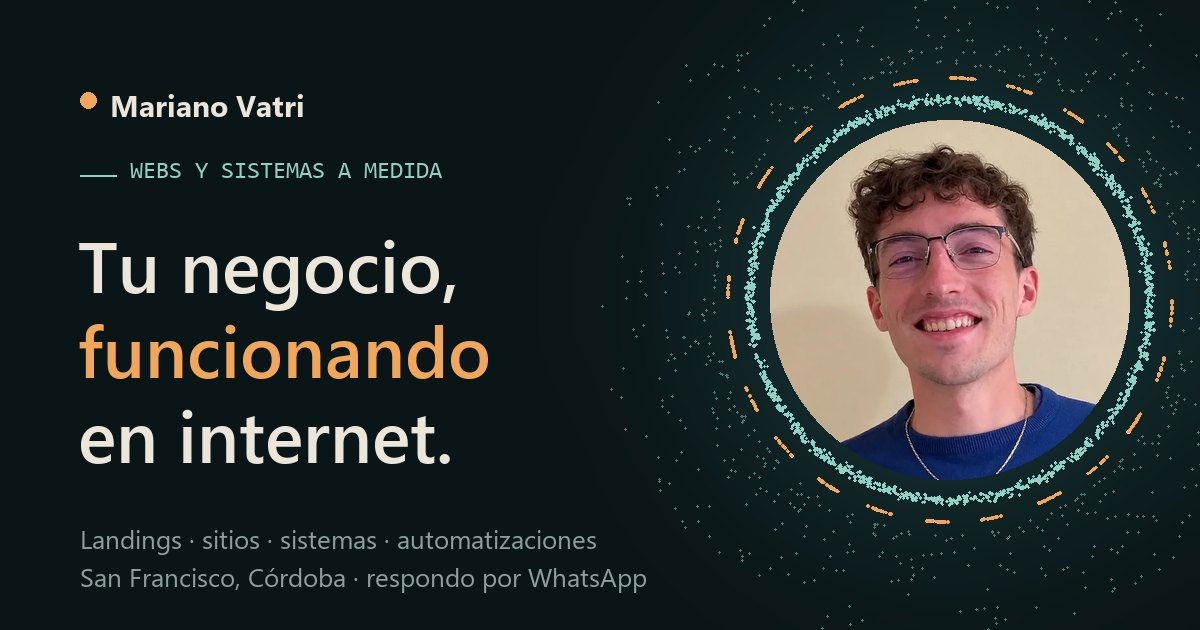
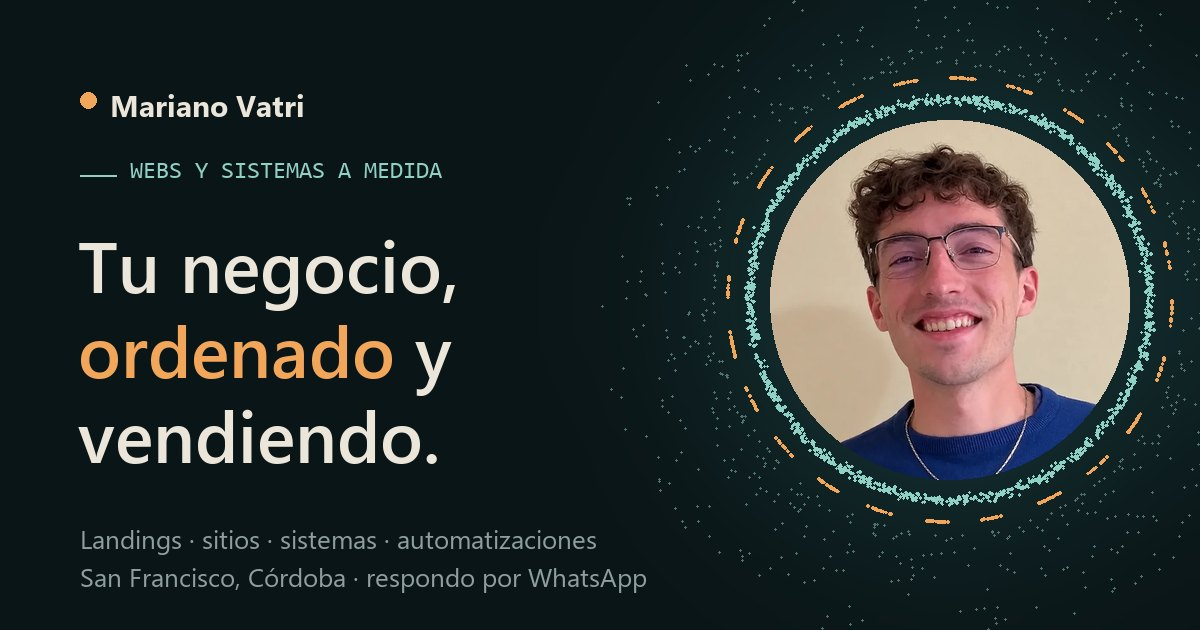
Hero con WhatsApp directo y dominio propio marianovatri.com.ar
- Hero: título nuevo en dos líneas, botón directo a WhatsApp, foto con
  línea de confianza y rótulos sobre las tarjetas del dashboard; algunos
  globos de la escena siguen cayendo en su tarjeta. Sale la palabra
  rotativa del título.
- Imagen de vista previa actualizada y avatar.webp en el service worker
  (caché mv-v3).
- Canonical, og:url, og:image, JSON-LD y tarjeta de contacto apuntan a
  www.marianovatri.com.ar.
- README: publicación en Vercel con el dominio delegado desde NIC.

Changed region(s): [[0.0617, 0.6333, 0.37, 0.754], [0.0617, 0.5127, 0.4317, 0.6333]]

diff --git a/index.html b/index.html
@@ -5,21 +5,21 @@
 <meta name="viewport" content="width=device-width,initial-scale=1,viewport-fit=cover">
 <title>Mariano Vatri · Webs y sistemas para pymes en San Francisco, Córdoba</title>
 <meta name="description" content="Landings, sitios, sistemas a medida, automatizaciones y mantenimiento para consultoras, profesionales y pymes. Me escribís por WhatsApp y te respondo en 24 h hábiles.">
-<link rel="canonical" href="https://marianovatri.netlify.app/">
+<link rel="canonical" href="https://www.marianovatri.com.ar/">
 <meta name="theme-color" content="#0A1517">
 <!-- vista previa al compartir el link (WhatsApp, LinkedIn, etc.) -->
 <meta property="og:type" content="website">
 <meta property="og:locale" content="es_AR">
 <meta property="og:site_name" content="Mariano Vatri">
-<meta property="og:url" content="https://marianovatri.netlify.app/">
+<meta property="og:url" content="https://www.marianovatri.com.ar/">
 <meta property="og:title" content="Mariano Vatri · Webs y sistemas para pymes">
 <meta property="og:description" content="Landings, sitios y sistemas a medida en San Francisco, Córdoba. Me escribís por WhatsApp y lo hago yo, sin intermediarios.">
-<meta property="og:image" content="https://marianovatri.netlify.app/img/og.jpg">
+<meta property="og:image" content="https://www.marianovatri.com.ar/img/og.jpg">
 <meta property="og:image:width" content="1200">
 <meta property="og:image:height" content="630">
 <meta property="og:image:alt" content="Mariano Vatri, webs y sistemas a medida">
 <meta name="twitter:card" content="summary_large_image">
-<script type="application/ld+json">{"@context":"https://schema.org","@type":"ProfessionalService","name":"Mariano Vatri · Webs y sistemas a medida","url":"https://marianovatri.netlify.app/","image":"https://marianovatri.netlify.app/img/og.jpg","telephone":"+5493564335655","email":"marianovatri@gmail.com","areaServed":"AR","address":{"@type":"PostalAddress","addressLocality":"San Francisco","addressRegion":"Córdoba","addressCountry":"AR"},"sameAs":["https://www.linkedin.com/in/marianovatri/","https://github.com/marianovatri","https://www.instagram.com/vatrimariano/"]}</script>
+<script type="application/ld+json">{"@context":"https://schema.org","@type":"ProfessionalService","name":"Mariano Vatri · Webs y sistemas a medida","url":"https://www.marianovatri.com.ar/","image":"https://www.marianovatri.com.ar/img/og.jpg","telephone":"+5493564335655","email":"marianovatri@gmail.com","areaServed":"AR","address":{"@type":"PostalAddress","addressLocality":"San Francisco","addressRegion":"Córdoba","addressCountry":"AR"},"sameAs":["https://www.linkedin.com/in/marianovatri/","https://github.com/marianovatri","https://www.instagram.com/vatrimariano/"]}</script>
 <link rel="preconnect" href="https://fonts.googleapis.com">
 <link rel="preconnect" href="https://fonts.gstatic.com" crossorigin>
 <link rel="stylesheet" href="https://fonts.googleapis.com/css2?family=Bricolage+Grotesque:opsz,wght@12..96,300..800&family=Figtree:wght@400;500;600&family=JetBrains+Mono:wght@400;500&display=swap">
@@ -199,8 +199,19 @@ p{margin:0;max-width:62ch}
 .ba input{position:absolute;inset:0;width:100%;height:100%;margin:0;opacity:0;cursor:ew-resize;z-index:2}
 .ba:has(input:focus-visible){outline:2px solid var(--glacier);outline-offset:3px}
 /* palabra que se escribe en el título */
-.rot{display:block;white-space:nowrap;min-height:1.02em}
-.rot::after{content:"";display:inline-block;width:.06em;height:.82em;margin-left:.04em;background:var(--apricot);vertical-align:-.04em;animation:caret 1s steps(1) infinite}
+/* Hero: título en dos líneas, todo lo importante entra sin scroll */
+.hero .col{width:min(640px,100%)}
+.hero h1{font-size:clamp(2.5rem,1.4rem + 3.3vw,4.4rem)}
+.hero h1 .l2{display:block;white-space:nowrap}
+@media (max-width:520px){.hero h1 .l2{white-space:normal}}
+.hero .lead{max-width:40ch;margin-top:22px}
+.hero .actions{margin-top:30px}
+.btn .ico{width:20px;height:20px;flex:none}
+.trust{display:flex;align-items:center;gap:10px;margin-top:22px;font-size:var(--s-1);color:var(--bone);opacity:.9}
+.trust img{width:28px;height:28px;border-radius:50%;object-fit:cover;border:1px solid var(--line);flex:none}
+.hero .creds{margin-top:16px}
+.hero .scrollhint{margin-top:30px}
+@media (max-height:820px) and (min-width:901px){.hero .scrollhint{display:none}}
 @keyframes caret{50%{opacity:0}}
 .btn.solid,nav .cta{transition:background .25s,color .25s,transform .3s cubic-bezier(.2,.7,.1,1)}
 .works .kind{font-family:var(--f-mono);font-size:var(--s-1);color:var(--glacier);letter-spacing:.08em;text-transform:uppercase}
@@ -224,6 +235,12 @@ footer .wrap{display:flex;flex-wrap:wrap;justify-content:space-between;gap:12px;
 html.present .hud-k{font-size:.85rem}
 html.present .hud-t{font-size:1.5rem}
 @media (max-width:900px){.hud{display:none}}
+/* rótulos de las tarjetas del dashboard del inicio (los ubica el script sobre cada tarjeta) */
+.dash-tags span{position:fixed;left:0;top:0;z-index:3;pointer-events:none;opacity:0;font-family:var(--f-mono);font-size:.68rem;letter-spacing:.14em;text-transform:uppercase;
+  color:var(--glacier);padding:3px 9px;border-radius:999px;background:rgba(10,21,23,.7);border:1px solid rgba(143,209,196,.25);white-space:nowrap;will-change:transform,opacity;
+  transition:color .35s,background-color .35s,border-color .35s,box-shadow .35s}
+.dash-tags span.hit{color:var(--ink);background:var(--apricot);border-color:var(--apricot);box-shadow:0 0 16px rgba(242,166,90,.55)}
+@media (max-width:900px){.dash-tags{display:none}}
 
 /* Riel de secciones */
 .rail{position:fixed;right:22px;top:50%;transform:translateY(-50%);z-index:4;display:flex;flex-direction:column;align-items:center;gap:14px}
@@ -368,7 +385,7 @@ html.present .fab{display:none}
 @media (prefers-reduced-motion:reduce){
   html{scroll-behavior:auto}
   .ri{opacity:1;translate:none;transition:none}
-  .scrollhint span,.fab.on::before,.rot::after,.hud.swap .hud-t,.hud.swap .hud-k,.estimate strong.pop,.hola:hover .hola-msg span{animation:none}
+  .scrollhint span,.fab.on::before,.hud.swap .hud-t,.hud.swap .hud-k,.estimate strong.pop,.hola:hover .hola-msg span{animation:none}
   .steps{--tallo:1!important}
 }
 </style>
@@ -378,6 +395,7 @@ html.present .fab{display:none}
 <canvas id="scene" aria-hidden="true"></canvas>
 <div class="grain" aria-hidden="true"></div>
 <div class="hud" id="hud" aria-hidden="true"><span class="hud-k"></span><span class="hud-t"></span></div>
+<div class="dash-tags" id="dash-tags" aria-hidden="true"><span>Consultas</span><span>Turnos</span><span>Ventas</span></div>
 
 <nav class="rail" id="rail" aria-label="Secciones de la página">
   <a href="#inicio" data-sec="inicio"><span>Inicio</span></a>
@@ -421,14 +439,17 @@ html.present .fab{display:none}
   <section class="sec hero" id="inicio" data-shape="0">
     <div class="wrap"><div class="col">
       <p class="eyebrow">Webs y sistemas a medida</p>
-      <h1 aria-label="Tu negocio, funcionando en internet.">Tu negocio, <em class="rot" aria-hidden="true">funcionando</em> en internet.</h1>
-      <p class="lead">Diseño y desarrollo landings, sitios y sistemas internos para consultoras, profesionales y pymes. Vos me contás qué necesitás; yo me ocupo de que exista.</p>
+      <h1>Tu negocio, <span class="l2"><em>ordenado</em> y vendiendo.</span></h1>
+      <p class="lead">Que las consultas te lleguen ordenadas y no se te escape ningún cliente. Webs y sistemas a medida para pymes y consultoras.</p>
       <div class="actions">
-        <a class="btn solid" href="#contacto">Contame tu proyecto</a>
-        <a class="btn ghost" href="#servicios">Ver qué hago</a>
+        <a class="btn solid wa" href="https://wa.me/5493564335655?text=Hola%20Mariano%2C%20vi%20tu%20web%20y%20quiero%20contarte%20mi%20proyecto." target="_blank" rel="noopener">
+          <svg class="ico" viewBox="0 0 24 24" aria-hidden="true"><path fill="currentColor" d="M12.04 2C6.58 2 2.13 6.45 2.13 11.91c0 1.75.46 3.45 1.32 4.95L2.05 22l5.25-1.38a9.9 9.9 0 0 0 4.74 1.2c5.46 0 9.91-4.45 9.91-9.91C21.95 6.45 17.5 2 12.04 2Zm0 18.15c-1.48 0-2.93-.4-4.2-1.15l-.3-.18-3.12.82.83-3.04-.2-.31a8.2 8.2 0 0 1-1.26-4.38c0-4.54 3.7-8.24 8.25-8.24 4.54 0 8.24 3.7 8.24 8.24 0 4.55-3.7 8.24-8.24 8.24Zm4.52-6.16c-.25-.12-1.47-.72-1.69-.81-.23-.08-.4-.12-.56.13-.17.24-.64.8-.78.97-.15.16-.29.18-.54.06-.25-.12-1.05-.39-1.99-1.23-.74-.66-1.23-1.47-1.38-1.72-.14-.25-.01-.38.11-.5.11-.11.25-.29.37-.43.13-.15.17-.25.25-.42.08-.16.04-.31-.02-.43-.06-.12-.56-1.34-.76-1.84-.2-.48-.41-.42-.56-.43h-.48c-.17 0-.43.06-.66.31-.22.25-.86.85-.86 2.07 0 1.22.89 2.4 1.01 2.56.12.17 1.75 2.67 4.23 3.74.59.26 1.05.41 1.41.52.59.19 1.13.16 1.56.1.48-.07 1.47-.6 1.67-1.18.21-.58.21-1.07.15-1.18-.06-.1-.23-.16-.48-.28Z"/></svg>
+          Escribime por WhatsApp</a>
+        <a class="btn ghost" href="#trabajos">Ver trabajos</a>
       </div>
+      <p class="trust"><img src="img/avatar.webp" width="64" height="64" alt="">San Francisco, Córdoba · Te respondo yo, en 24&nbsp;h hábiles</p>
       <ul class="creds">
-        <li>+4 años en equipos de desarrollo</li>
+        <li>Trabajo directo conmigo, sin intermediarios</li>
         <li>Sistemas para organismos provinciales</li>
         <li>NASA Space Apps 2022</li>
       </ul>
@@ -549,7 +570,7 @@ html.present .fab{display:none}
       <p class="lead">Armá tu consulta en tres toques y te respondo en menos de 24 horas hábiles.</p>
       <div class="big-qr">
         <img src="img/qr-whatsapp.svg" width="200" height="200" alt="Código QR que abre un chat de WhatsApp con Mariano">
-        <div><b>Escaneá y escribime</b><span>Te abre WhatsApp con el mensaje listo.</span><span class="url">+54 9 3564 33-5655 · marianovatri@gmail.com</span><span class="url">marianovatri.netlify.app</span></div>
+        <div><b>Escaneá y escribime</b><span>Te abre WhatsApp con el mensaje listo.</span><span class="url">+54 9 3564 33-5655 · marianovatri@gmail.com</span><span class="url">marianovatri.com.ar</span></div>
       </div>
       <form class="quote" id="quote" onsubmit="return false">
         <fieldset>
@@ -664,21 +685,6 @@ html.present .fab{display:none}
       wa.href='https://wa.me/5493564335655?text='+encodeURIComponent(msg);
     };
     q.addEventListener('input',update);update();
-  }
-
-  // palabra del título que se escribe y se borra
-  const rot=document.querySelector('.rot');
-  if(rot&&!still){
-    const words=['funcionando','vendiendo','creciendo','atendiendo'];let w=0;
-    const wait=ms=>new Promise(r=>setTimeout(r,ms));
-    (async function loop(){
-      for(;;){
-        await wait(2600);
-        for(let t=words[w];t.length;t=t.slice(0,-1)){rot.textContent=t.slice(0,-1);await wait(45)}
-        w=(w+1)%words.length;
-        for(let i=1;i<=words[w].length;i++){rot.textContent=words[w].slice(0,i);await wait(70)}
-      }
-    })();
   }
 
   // capturas de trabajos que se inclinan siguiendo el mouse
@@ -884,7 +890,7 @@ function start(){
   // caos: mensajes y notas sueltas por toda la pantalla (así llega el trabajo de un negocio)
   const NB=mobile?32:48,bubbles=[];
   for(let b=0;b<NB;b++){const w=.6+R()*.75;bubbles.push({x:(R()-.5)*(mobile?6:11.5)-(mobile?0:2.4),y:(R()-.5)*(mobile?9:6.4),z:-3+R()*4.4,w,h:w*(.4+R()*.22),rot:(R()-.5)*.9,yaw:(R()-.5)*1.4})}
-  const chaos=()=>{const b=bubbles[R()*NB|0];let x,y;
+  const chaos=(bi=R()*NB|0)=>{const b=bubbles[bi];let x,y;
     const u=R();
     if(u<.66)[x,y]=rrect(b.w,b.h,Math.min(b.h/2,.11),R());
     else if(u<.72){const t=R();[x,y]=t<.5?[-b.w/2+.16-t*.2,-b.h/2-t*.24]:[-b.w/2+.06+(t-.5)*.3,-b.h/2-.12+(t-.5)*.24]} // la colita del globo
@@ -968,15 +974,21 @@ function start(){
 
   // ---------- geometría ----------
   const geo=new THREE.BufferGeometry(),F=k=>new Float32Array(N*k);
-  const A={position:F(3),aChaos:F(3),aS1:F(3),aS2:F(3),aS3:F(3),aS4:F(3),aS5:F(3),aS6:F(3),aCol6:F(3),aRand:F(1),aUv:F(2),aPath:F(1),aLayer:F(1)};
+  const A={position:F(3),aChaos:F(3),aS1:F(3),aS3:F(3),aS4:F(3),aS5:F(3),aS6:F(3),aCol6:F(3),aRand:F(1),aUv:F(2),aPath:F(1),aLayer:F(1),aFlow:F(1)}; // aFlow: 0, o 1+fase del globo
+  // flujo continuo: unos pocos globos (del lado de la escena) vuelven a entrar cada tanto y caen en una tarjeta.
+  // Cada globo tiene su fase y su tarjeta; el script usa las mismas fases para marcar el rótulo cuando llega.
+  const FLOW_N=9,flowSlot=new Map();
+  bubbles.map((b,k)=>[b,k]).filter(([b])=>b.x>-.6&&Math.abs(b.y)<2.6).slice(0,FLOW_N).forEach(([,k],s)=>flowSlot.set(k,s));
+  const cardPt=k=>{const cx=-.6+k*1.02;return R()<.6?outline(cx,.59,.9,.6,.08,.32)():box(cx-.38,.36,cx+.38,.82,.32)()};
   const put=(arr,i,v)=>{arr[i*3]=v[0];arr[i*3+1]=v[1];arr[i*3+2]=v[2]};
   const SW=4.6,SH=SW*ROWS/COLS,qmark=glyph('?',QFONT,3.2);
   for(let i=0;i<N;i++){
     A.aRand[i]=R();
-    put(A.aChaos,i,chaos());put(A.position,i,dash());
+    const bi=R()*NB|0,slot=flowSlot.get(bi);put(A.aChaos,i,chaos(bi));
+    if(slot!==undefined&&R()<.5){A.aFlow[i]=1+slot/flowSlot.size;put(A.position,i,cardPt(slot%3))}
+    else put(A.position,i,dash());
     const l=layers();put(A.aS1,i,l);A.aLayer[i]=l[3];
     const c=i%COLS,r=(i/COLS)|0;A.aUv[i*2]=(c+.5)/COLS;A.aUv[i*2+1]=(r+.5)/ROWS;
-    put(A.aS2,i,[(c/(COLS-1)-.5)*SW,(.5-r/(ROWS-1))*SH,0]);
     const p=path();put(A.aS3,i,p);A.aPath[i]=p[3];
     put(A.aS4,i,venn());put(A.aS5,i,qmark());const hp=halo();put(A.aS6,i,hp);put(A.aCol6,i,hp.slice(3));
   }
@@ -1055,13 +1067,13 @@ function start(){
   const U={uProg:{value:0},uIntro:{value:reduce?1:0},uTime:{value:0},uPix:{value:1},uMotion:{value:reduce?0:1},uSize:{value:mobile?42:36},uScale:{value:1},
     uAspect:{value:1},uHover:{value:0},uMouse:{value:new THREE.Vector2(9,9)},uBoost:{value:1},uBoostSize:{value:1},
     uPosT:{value:posT},uColT:{value:colT},uShotA:{value:0},uShotB:{value:0},uShotMix:{value:0},uShotsN:{value:NS},uShotsReady:{value:0},
-    uPath:{value:0},uLayer:{value:3},uLayerOn:{value:0},
+    uPath:{value:0},uLayer:{value:3},uLayerOn:{value:0},uFlow:{value:0},uHeroA:{value:mobile?.4:1},uHit:{value:new THREE.Vector3()},
     uA:{value:new THREE.Color('#8FD1C4')},uB:{value:new THREE.Color('#F2A65A')},uC:{value:new THREE.Color('#ECE6DA')}};
 
   const mat=new THREE.ShaderMaterial({transparent:true,depthWrite:false,blending:THREE.AdditiveBlending,uniforms:U,
     vertexShader:`
-      attribute vec3 aChaos,aS1,aS2,aS3,aS4,aS5,aS6,aCol6;attribute float aRand,aPath,aLayer;attribute vec2 aUv;
-      uniform float uProg,uIntro,uTime,uPix,uMotion,uSize,uScale,uAspect,uHover,uBoost,uBoostSize;
+      attribute vec3 aChaos,aS1,aS3,aS4,aS5,aS6,aCol6;attribute float aRand,aPath,aLayer,aFlow;attribute vec2 aUv;
+      uniform float uProg,uIntro,uTime,uPix,uMotion,uSize,uScale,uAspect,uHover,uBoost,uBoostSize,uFlow,uHeroA;uniform vec3 uHit;
       uniform float uShotA,uShotB,uShotMix,uShotsN,uShotsReady,uPath,uLayer,uLayerOn;
       uniform vec2 uMouse;uniform sampler2D uPosT,uColT;uniform vec3 uA,uB,uC;
       varying vec3 vCol;varying float vA;varying float vHard;
@@ -1076,8 +1088,12 @@ function start(){
         vec3 cs=mix(texture2D(uColT,tc(uShotA)).rgb,texture2D(uColT,tc(uShotB)).rgb,uShotMix);
         vec3 ps=mix(texture2D(uPosT,tc(uShotA)).xyz,texture2D(uPosT,tc(uShotB)).xyz,uShotMix);
         float swap=sin(uShotMix*3.14159);
-        vec3 s2=mix(aS2,ps,uShotsReady)+vec3(0.,0.,swap*(aRand-.5)*1.4);
-        vec3 p=mix(aChaos+vec3(sin(uTime*.35+aChaos.y*.6),cos(uTime*.3+aChaos.x*.5),0.)*.16*uMotion,position,i0); // los globos flotan enteros
+        vec3 s2=ps+vec3(0.,0.,swap*(aRand-.5)*1.4);
+        // inicio ya ordenado: algunos globos vuelven a aparecer y viajan hasta su tarjeta (fase compartida por globo)
+        float w0=i0*(1.-m1),fl=step(.5,aFlow)*uFlow*(1.-m1);
+        float ph=fract(uTime*.05+fract(aFlow)),fT=e(ph/.14);
+        float fa=mix(1.,smoothstep(0.,.025,ph)*(1.-smoothstep(.975,1.,ph)),fl);
+        vec3 p=mix(aChaos+vec3(sin(uTime*.35+aChaos.y*.6),cos(uTime*.3+aChaos.x*.5),0.)*.16*uMotion,position,i0*mix(1.,fT,fl)); // los globos flotan enteros
         float ra=uTime*.06*uMotion;vec3 s6=vec3(aS6.x*cos(ra)-aS6.y*sin(ra),aS6.x*sin(ra)+aS6.y*cos(ra),aS6.z); // el anillo gira despacio
         p=mix(p,aS1,m1);p=mix(p,s2,m2);p=mix(p,aS3,m3);p=mix(p,aS4,m4);p=mix(p,aS5,m5);p=mix(p,s6,m6);
         float tr=1.-abs(fract(uProg)-.5)*2.,calm=max(w2,w6);
@@ -1085,7 +1101,9 @@ function start(){
         vec4 mv=modelViewMatrix*vec4(p,1.);
         vec4 cp=projectionMatrix*mv;vec2 dd=(cp.xy/cp.w-uMouse)*vec2(uAspect,1.);
         float k=smoothstep(.22,0.,length(dd))*uHover;
-        mv.xy+=normalize(dd+1e-5)*k*.42*(-mv.z/8.);
+        mv.xy+=normalize(dd+1e-5)*k*.42*(-mv.z/8.)*(1.-w0*.6);
+        // en el dashboard el mouse lo desordena: cada partícula sale para su lado y vuelve cuando el cursor se va
+        mv.xyz+=vec3(sin(aRand*91.7),cos(aRand*57.3),sin(aRand*33.1))*k*.55*w0*(-mv.z/8.);
         gl_Position=projectionMatrix*mv;
         vec3 c=mix(uA,uB,step(.82,aRand));
         float hl=uLayer>2.5?1.:1.-step(.5,abs(aLayer-uLayer));
@@ -1096,12 +1114,19 @@ function start(){
         c=mix(c,vc,w4);
         c=mix(c,cs*.95,w2);
         c=mix(c,aCol6,w6);
-        vCol=c*uBoost;
+        // tarjeta que acaba de recibir un globo: brilla un instante
+        float card=(position.z>.25&&position.y>.25)?floor((position.x+1.11)/1.02):-1.;
+        float hit=card==0.?uHit.x:card==1.?uHit.y:card==2.?uHit.z:0.;
+        c=mix(c,uB*1.25,hit*w0*.7);
+        vCol=c*uBoost*(1.+.25*w0);
         float tw=.55+.45*sin(uTime*1.3+aRand*60.)*uMotion;
         float a=mix(tw,.9,max(w2,w6*.85));
         a*=mix(1.,.58+.42*hl,w1*uLayerOn)*mix(1.,.4+.6*done,w3);
+        a=mix(a,max(a,.78),w0*.6)*fa+hit*w0*.35;
+        a*=mix(1.,uHeroA,w0); // en celular el dashboard queda detrás del texto: más tenue
         vA=a+k*.6;vHard=w2*.15;
         float sz=mix(.35+aRand*.9,.34+aRand*.26,w2);sz=mix(sz,.5+aRand*.55,w6); // en trabajos, puntos finos para que se lea la forma
+        sz*=1.+.18*w0;
         gl_PointSize=uSize*uPix*uScale*sz*mix(uBoostSize,1.,w2*.6)/-mv.z;
       }`,
     fragmentShader:`
@@ -1118,7 +1143,7 @@ function start(){
 
   // ---------- ubicación de cada forma: [x, y, escala] y [rotX, rotY, vaivén, velocidad] ----------
   const OFF=mobile?[[0,.75,.6],[0,.6,.55],[0,.75,.72],[0,.6,.6],[0,.6,.6],[0,.6,.6],[0,.65,.58]]
-                  :[[2.4,.05,1],[-2.35,-.05,.92],[2.45,.12,1.18],[-2.35,0,.95],[2.5,.05,.92],[-2.5,0,.95],[2.55,.05,1]];
+                  :[[2.75,.05,.94],[-2.35,-.05,.92],[2.45,.12,1.18],[-2.35,0,.95],[2.5,.05,.92],[-2.5,0,.95],[2.55,.05,1]];
   const ROT=[[.1,-.34,.06,.35],[.62,.62,.1,.3],[.12,-.3,.55,.32],[.3,.42,.16,.25],[.18,-.2,.5,.22],[.06,.25,.45,.4],[0,0,0,.3]];
   const ANCH=[-1.75,-1.9,-1.75,-1.45,-1.5,-1.85,-2.05]; // borde inferior de cada forma, para ubicar el rótulo
 
@@ -1153,7 +1178,7 @@ function start(){
   const LAYERS=['Capa 1 · Web','Capa 2 · Datos','Capa 3 · Automatización','Las tres capas'];
   const h3=el=>{const x=el&&el.querySelector('h3');return x?x.textContent:''};
   function caption(s,introP){
-    if(s===0)return introP<.62?['Así llega todo hoy','WhatsApps, planillas y papeles sueltos…']:['Del caos al orden','…todo en un solo sistema.'];
+    if(s===0)return introP<.62?['Así llega todo hoy','WhatsApps, planillas y papeles sueltos…']:['Del caos al orden','Cada consulta, en su lugar.'];
     if(s===1)return layerEl?[LAYERS[+layerEl.dataset.layer||0],h3(layerEl)]:['Servicios','Web, datos y automatización'];
     if(s===2){const k=activeWork&&activeWork.querySelector('.kind');return[k?k.textContent:'Trabajos',h3(activeWork)||'Trabajos']}
     if(s===3)return stepIdx<0?['Cómo trabajo','Cuatro pasos, sin sorpresas']:[`Paso 0${stepIdx+1} de 04`,h3(steps[stepIdx])];
@@ -1163,6 +1188,9 @@ function start(){
   }
 
   const holaFoto=document.querySelector('.hola-foto');
+  // rótulos de las tarjetas del dashboard; se marcan cuando les llega un globo (mismas fases que el shader)
+  const tags=[...document.querySelectorAll('#dash-tags span')],hits=[0,0,0],NF=flowSlot.size;let lastPh=null;
+  U.uFlow.value=reduce||mobile?0:1;
   let shotCur=0,shotNext=0,shotMix=0,last=performance.now();
   function frame(now){
     const dt=Math.min((now-last)/1000,.05),t=now/1000;last=now;
@@ -1171,6 +1199,13 @@ function start(){
     const introP=reduce?1:clamp(((now-introT0)/1000-1)/2.9,0,1);
     U.uProg.value=prog;U.uTime.value=t;U.uIntro.value=introP;
     U.uShotsReady.value=lerp(U.uShotsReady.value,shotsReadyT,.06);
+    if(U.uFlow.value&&NF){
+      const phs=[];for(let s=0;s<NF;s++)phs.push((t*.05+s/NF)%1);
+      if(lastPh)phs.forEach((p,s)=>{if(lastPh[s]<.14&&p>=.14&&prog<.5)hits[s%3]=1});
+      lastPh=phs;
+    }
+    for(let k=0;k<3;k++)hits[k]*=Math.exp(-dt*2.2);
+    U.uHit.value.set(hits[0],hits[1],hits[2]);
     U.uBoost.value=lerp(U.uBoost.value,pres?1.22:1,.08);U.uBoostSize.value=lerp(U.uBoostSize.value,pres?1.3:1,.08);
 
     // trabajos: la captura que se dibuja es la del ítem que está en el centro (o bajo el mouse)
@@ -1213,6 +1248,11 @@ function start(){
       const x=(v3.x+1)/2*innerWidth,y=Math.min((1-v3.y)/2*innerHeight,innerHeight-(pres?200:70)); // en presentación deja lugar al QR
       hud.style.transform=`translate(${x.toFixed(1)}px,${y.toFixed(1)}px) translate(-50%,0)`;
       hud.style.opacity=(s===6?0:settle).toFixed(3); // en contacto la foto ya tiene su propio texto
+      const tv=clamp(1-prog*2.5,0,1)*smooth(.8,1,introP)*(pres?0:1);
+      if(tags.length){g.updateMatrixWorld(true);tags.forEach((el,k)=>{
+        v3.set(-.6+k*1.02,1.02,.32);pts.localToWorld(v3);v3.project(camera);
+        el.style.transform=`translate(${((v3.x+1)/2*innerWidth).toFixed(1)}px,${((1-v3.y)/2*innerHeight).toFixed(1)}px) translate(-50%,-100%)`;
+        el.style.opacity=tv.toFixed(3);el.classList.toggle('hit',hits[k]>.35)})}
     }
     // con la escena quieta (sin scroll, sin mouse, sin transición) dibuja a la mitad de cuadros por segundo
     const busy=Math.abs(prog-target)>.002||shotMix>0||introP<1||pres||now-lastMove<1500;

diff --git a/sw.js b/sw.js
@@ -1,12 +1,12 @@
 // Guarda la web, la librería 3D, las imágenes y las fuentes después de la primera visita,
 // para que el modo presentación funcione aunque falle el wifi del lugar.
 // Al cambiar imágenes o la librería, subir el número de CACHE.
-const CACHE = 'mv-v2';
+const CACHE = 'mv-v3';
 const CORE = [
   './', 'index.html', 'vendor/three.module.min.js', 'vendor/three.core.min.js',
   'img/fonevo.webp', 'img/gastro.webp', 'img/jardineria.webp', 'img/milo.webp',
   'img/pizza-antes.webp', 'img/pizza-despues.webp', 'img/marte.webp',
-  'img/mariano.webp', 'img/mariano-hola.webp', 'img/qr-whatsapp.svg'
+  'img/mariano.webp', 'img/mariano-hola.webp', 'img/avatar.webp','img/qr-whatsapp.svg'
 ];
 
 self.addEventListener('install', e => {

diff --git a/README.md b/README.md
@@ -1,6 +1,6 @@
 # Mariano Vatri · Webs y sistemas a medida
 
-Mi sitio de servicios: **[marianovatri.netlify.app](https://marianovatri.netlify.app)**
+Mi sitio de servicios: **[marianovatri.com.ar](https://www.marianovatri.com.ar)**
 
 ## Qué tiene
 
@@ -22,6 +22,8 @@ npx serve .
 
 ## Publicación
 
-Netlify, configurado en `netlify.toml`: copia los archivos a `dist/`, que es lo que publica el panel.
+Vercel, proyecto `web-mariano`. El dominio `marianovatri.com.ar` está registrado en NIC Argentina y delegado a los DNS de Vercel (`ns1.vercel-dns.com` y `ns2.vercel-dns.com`); la versión principal es `www.marianovatri.com.ar` y la que va sin `www` redirige ahí. Se renueva cada año en NIC (vence el 6/11 de cada año).
+
+`netlify.toml` quedó de cuando el sitio estaba en Netlify.
 
 El CV anterior, hecho en Vue, quedó en la rama `cv-vue-2024`.
